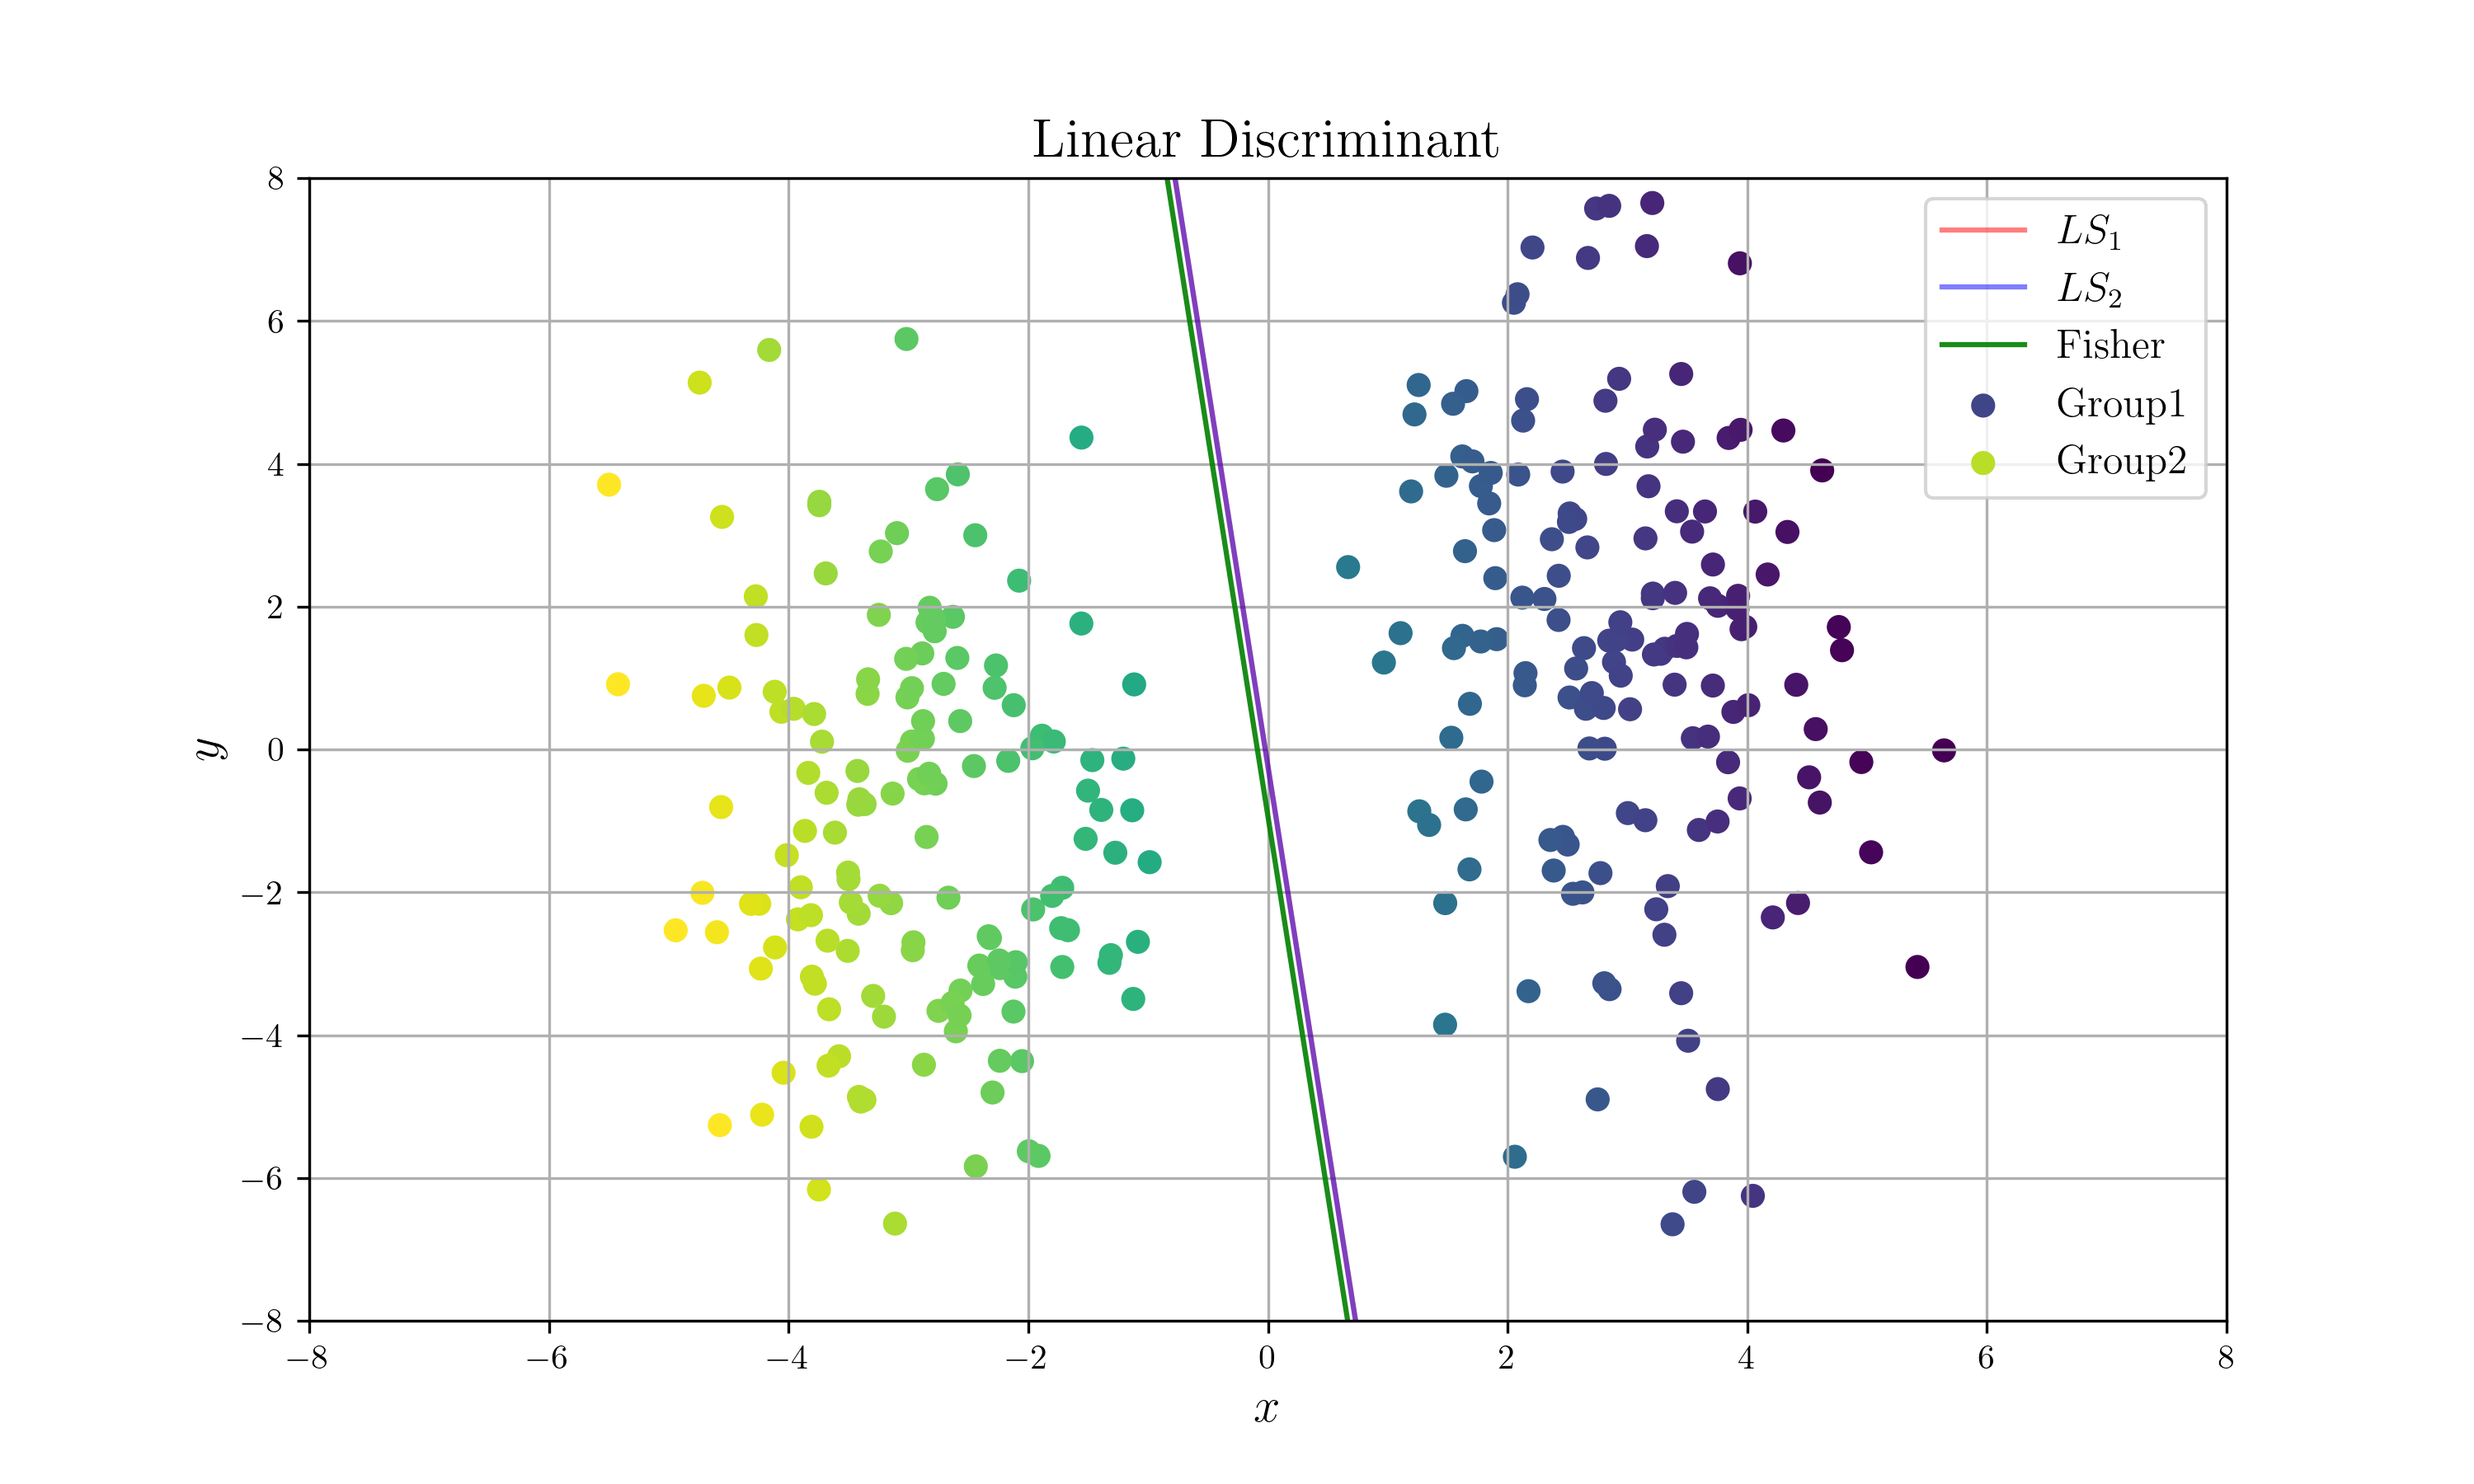
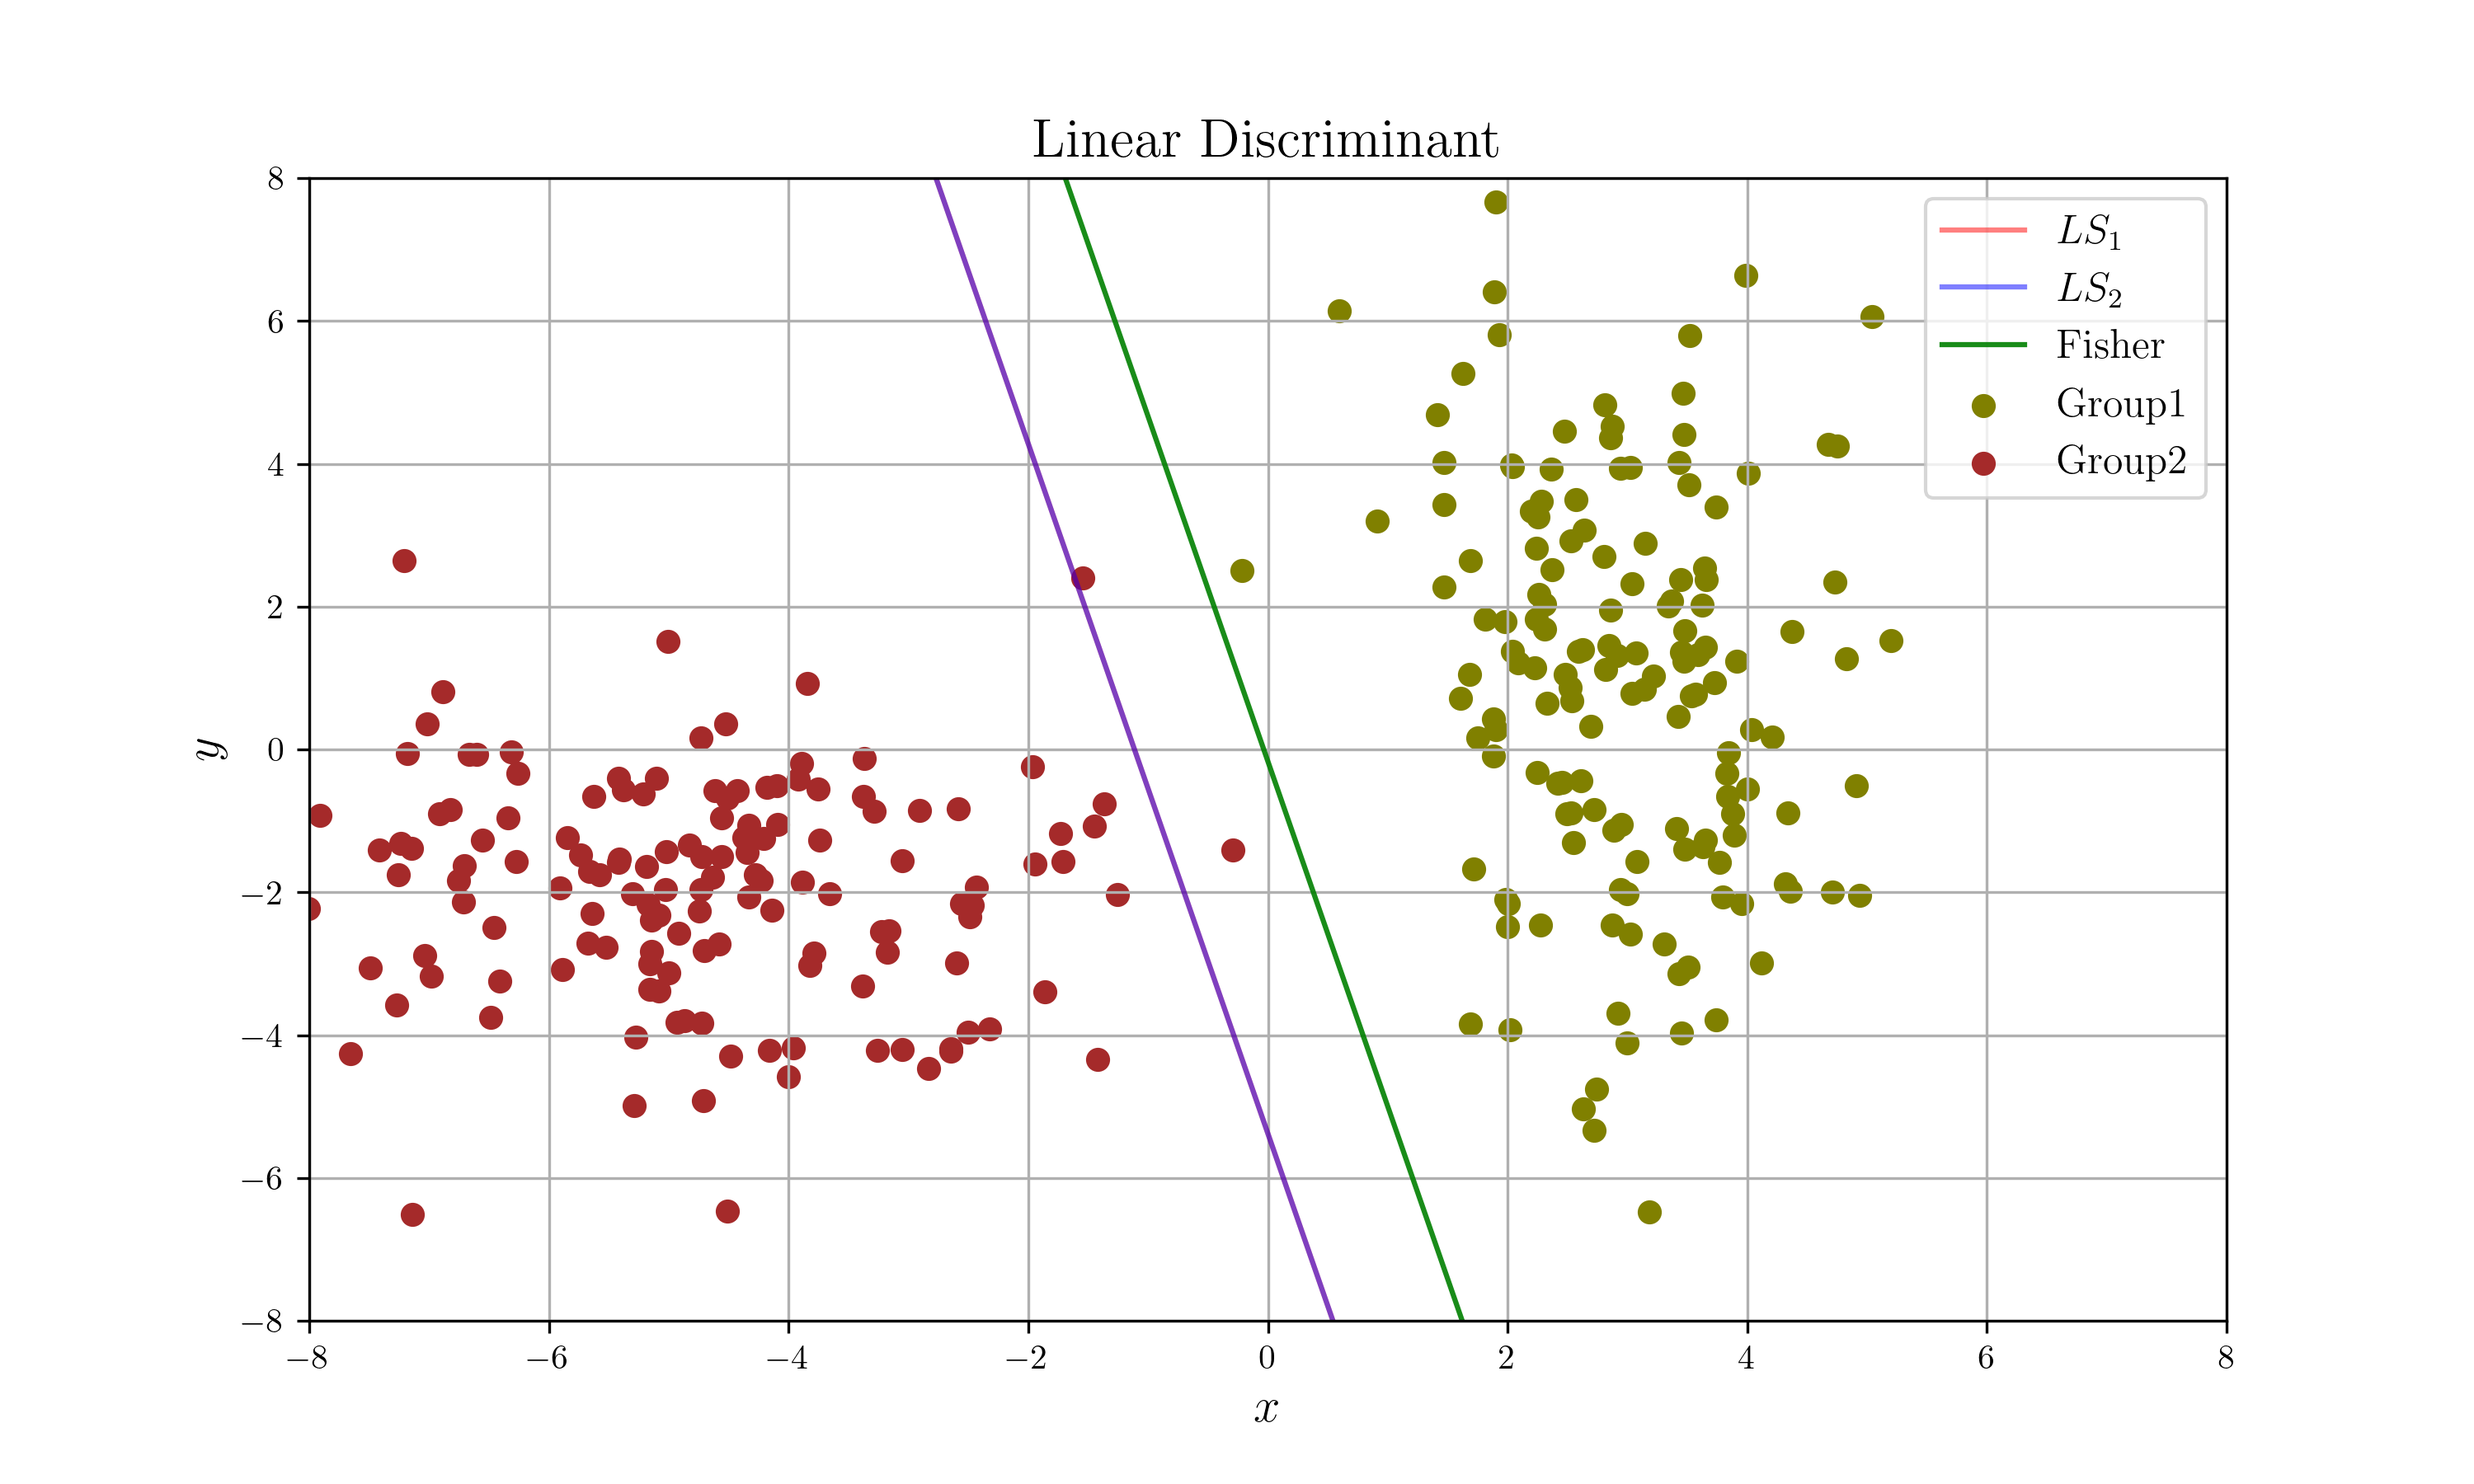
Euclid to Mahalanobis Fisher

diff --git a/04_LDA/julia/nc_plot.py b/04_LDA/julia/nc_plot.py
@@ -29,8 +29,8 @@ r1 = var['r1'][:]
 r2 = var['r2'][:]
 
 # Plot with Legends
-plt.scatter(x1, y1, label=r'Group1', c=r1, alpha=1, vmin=-5, vmax=5)
-plt.scatter(x2, y2, label=r'Group2', c=r2, alpha=1, vmin=-5, vmax=5)
+plt.scatter(x1, y1, label=r'Group1', c='olive', alpha=1, vmin=-5, vmax=5)
+plt.scatter(x2, y2, label=r'Group2', c='brown', alpha=1, vmin=-5, vmax=5)
 plt.plot(d, b1, label=r'$LS_1$', color='r', alpha=0.5)
 plt.plot(d, b2, label=r'$LS_2$', color='b', alpha=0.5)
 plt.plot(d, bf, label=r'Fisher', color='g', alpha=0.9)
